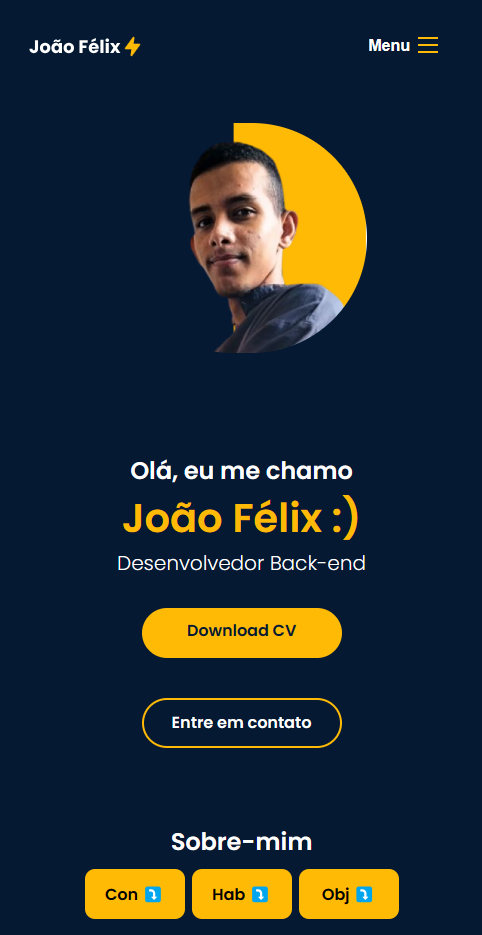
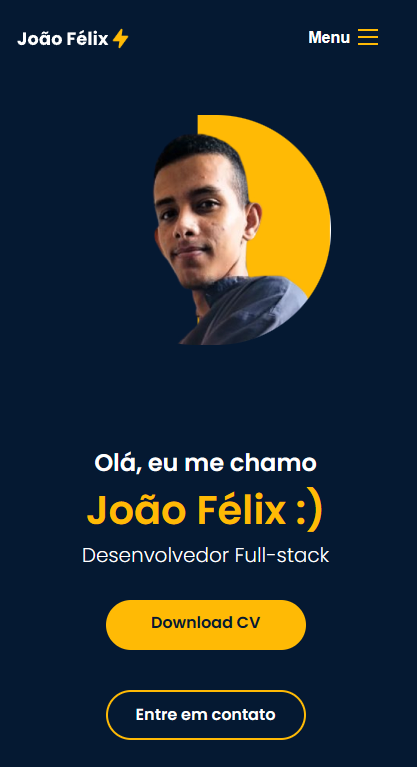
Atualizando portifólio

diff --git a/index.html b/index.html
@@ -112,7 +112,7 @@
         <div class="imagem">
           <h2>Reserva de Eventos</h2>
           <a href="https://github.com/joaofelixss/Primeiro_projeto_laravel/">
-            <img src="/img/eventos.png" alt="Reserva de Eventos">
+            <img src="img/eventos.png" alt="Reserva de Eventos">
           </a>
         </div>
         <ul class="icons">
@@ -126,12 +126,12 @@
         <div class="imagem">
           <h2>E-commerce em Vue.js</h2>
           <a href="https://github.com/joaofelixss/ecomerce-vue">
-            <img src="/img/eventos.png" alt="Reserva de Eventos">
+            <img src="img/ecomerce-vue1.png" alt="Ecommerce-em-vue">
           </a>
         </div>
         <ul class="icons">
           <a href="https://skillicons.dev">
-            <img src="https://skillicons.dev/icons?i=vue,html,scss,bootstrap" />
+            <img src="https://skillicons.dev/icons?i=vue,js,scss,bootstrap" />
           </a>
         </ul>
       </div>
@@ -140,7 +140,7 @@
         <div class="imagem">
           <h2>OLW - Laravel Express</h2>
           <a href="https://github.com/joaofelixss/OLW-Laravel-Express">
-            <img src="/img/express.png" alt="laravel Express">
+            <img src="img/express.png" alt="laravel Express">
           </a>
         </div>
         <ul class="icons">
@@ -154,7 +154,7 @@
         <div class="imagem">
           <h2>Fórum - Curso Laravel 10</h2>
           <a href="https://github.com/joaofelixss/Curso-Laravel-10">
-            <img src="/img/forum.png" alt="Projeto Fórum">
+            <img src="img/forum.png" alt="Projeto Fórum">
           </a>
         </div>
         <ul class="icons">
@@ -168,7 +168,7 @@
         <div class="imagem">
           <h2>E-commerce Versão 1.0</h2>
           <a href="https://github.com/joaofelixss/e-ecommerce">
-            <img src="/img/e-commerce.jpg" alt="Projeto e-ecommerce">
+            <img src="img/e-commerce.jpg" alt="Projeto e-ecommerce">
           </a>
         </div>
         <ul class="icons">
@@ -182,7 +182,7 @@
         <div class="imagem">
           <h2>Gerenciamento de clientes</h2>
           <a href="https://github.com/joaofelixss/JF-gerenciamento-clientes">
-            <img src="/img/foto1.png" alt="Projeto php">
+            <img src="img/foto1.png" alt="Projeto php">
           </a>
         </div>
         <ul class="icons">
@@ -195,18 +195,16 @@
   </section>
 
   <footer class="footer" id="contato">
-    <h1>😉 Entre em contato comigo para conhecer mais sobre minha trajetória profissional e como podemos alcançar resultados incríveis juntos.</h1>
-    <p>🤓 Estou empenhado em estabelecer parcerias significativas e construir relacionamentos profissionais sólidos. Se você está buscando um profissional dedicado, orientado para resultados e com habilidades de um back-end developer, ficarei feliz em discutir oportunidades de colaboração.</p>
     <h2>Me siga em:</h2>
     <ul class="footer-icons">
       <a href="https://www.github.com/joaofelixss/">
-        <li><img src="/img/GITHUB.png" alt="github"></li>
+        <li><img src="img/GITHUB.png" alt="github"></li>
       </a>
       <a href="https://www.instagram.com/joaofelix_xs/">
-        <li><img src="/img/instagram.png" alt="instagram"></li>
+        <li><img src="img/instagram.png" alt="instagram"></li>
       </a>
       <a href="https://www.linkedin.com/in/joaofelixss/">
-        <li><img src="/img/linkedin.png" alt="linkedin"></li>
+        <li><img src="img/linkedin.png" alt="linkedin"></li>
       </a>
     </ul>
   </footer>

diff --git a/css/footer.css b/css/footer.css
@@ -9,17 +9,6 @@
   justify-items: center;
 }
 
-.footer h1{
-  font-size: 1.5rem;
-  margin: 1.5rem;
-  max-width: 80ch;
-}
-
-.footer p{
-  font-size: 1rem;
-  max-width: 80ch;
-  margin-bottom: 1.5rem;
-}
 .footer-icons {
   justify-content: center;
   display: flex;
